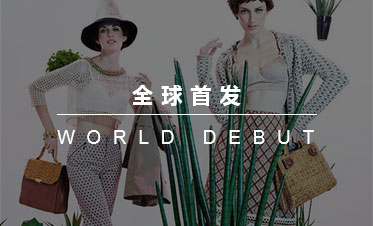
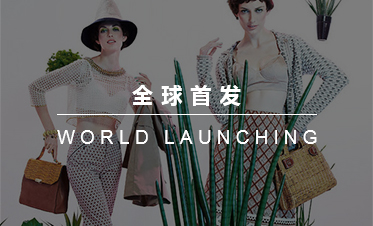
7/21 图片翻译有误替换

Changed region(s): [[0.2064, 0.5575, 0.8552, 0.6504]]

diff --git a/shop/public/css/base.css b/shop/public/css/base.css
@@ -549,7 +549,7 @@ table .pro{width: 360px;}
 .detail-inner .comment-item .comment-title{height: 34px;line-height: 34px;text-align: right;}
 .detail-inner .comment-item .comment-title .user{float: left;}
 .detail-inner .comment-item .comment-img{width: 50px;height: 90px;overflow: hidden;margin-right: 20px;padding-top: 5px;}
-.detail-inner .container .comment-page{padding-left:553px;margin-bottom: 20px;}
+.detail-inner .container .comment-page{padding-left:630px;margin-bottom: 20px;}
 .detail-inner .container .comment-page li{float:left;margin-right: 10px;}
 .detail-inner .container .comment-page a:hover{text-decoration: none;}
 .detail-inner .right{width: 373px;}
@@ -667,7 +667,7 @@ table .pro{width: 360px;}
 .all-order-list .order-list .not-pay{color: #FF2D54;}
 .all-order-list .order-list .pay{padding: 8px 14px;background: #FF2D54;color: #fff;}
 .all-order-list .order-list .confirm,.all-order-list .order-list .comment,.all-order-list .refund .cancel{padding: 8px 14px;background: #000;color: #fff;}
-.all-order-list .order-page{padding-left:700px;}
+.all-order-list .order-page{padding-left:795px;}
 .all-order-list .order-page li{float: left;margin-right: 15px;}
 
 .all-order-list .refund .order-number{color: #FF2D54}
@@ -796,13 +796,9 @@ table .pro{width: 360px;}
 .designer-brand-inner .brand-start-fashion li:hover,.designer-brand-inner .ready-online li:hover,.designer-brand-inner .hot-sale li:hover{box-shadow: 4px 4px 20px #b4b2b2;}
 .designer-brand-inner .brand-start-fashion li .cover,.designer-brand-inner .ready-online li .cover,.designer-brand-inner .hot-sale li .cover{position: absolute;width:283px;top: 462px;z-index: 10;height: 60px;}
 .designer-brand-inner .brand-start-fashion li .cover .design-cover,.designer-brand-inner .ready-online li  .cover .design-cover,.designer-brand-inner .hot-sale li .cover .design-cover{position: absolute;width:283px;top: 0;height: 60px;background: #000;opacity: .6;filter:alpha(opacity=60);z-index: -1;}
-/*.designer-brand-inner .brand-start-fashion a:hover,.designer-brand-inner .ready-online a:hover,.designer-brand-inner .hot-sale a:hover{text-decoration: none;}*/
-/*.designer-brand-inner .brand-start-fashion .like,.designer-brand-inner .ready-online .like,.designer-brand-inner .like,.designer-brand-inner  .buy{padding: 3px 20px 3px 30px;border: 1px solid #FF2D54;border-radius: 50px;margin:0 20px 0 40px;}*/
-/*.designer-brand-inner  .like{background: #fff;}*/
-/*.designer-brand-inner  .buy{background: #FF2D54;color: #fff;margin: 0 0 0 0;}*/
+
 .designer-brand-inner .brand-start-fashion .info,.designer-brand-inner .ready-online .info,.designer-brand-inner .hot-sale .info{height: 60px;}
 .designer-brand-inner .brand-start-fashion .info p,.designer-brand-inner .ready-online .info p,.designer-brand-inner .hot-sale .info p{color: #fff;text-align: center;padding: 20px 0;}
-/*.designer-brand-inner .ready-online .like{margin-left: 96px}*/
 .designer-brand-inner .ready-online .info p,.designer-brand-inner .hot-sale .info p{padding-top: 20px;}
 /*end designer-brand */
 /*address-manage*/
@@ -943,7 +939,7 @@ table .pro{width: 360px;}
 .footer-inner a:hover{color: #fd2049;}
 /*end footer*/
 .sider-bar{
-    position: absolute;width:62px;border-left: 1px solid #ccc;border-right: 1px solid #ccc;border-bottom: 1px solid #ccc;border-top: 6px solid #FF2D54;
+    position: fixed;width:62px;border-left: 1px solid #ccc;border-right: 1px solid #ccc;border-bottom: 1px solid #ccc;border-top: 6px solid #FF2D54;
     left: 50%;margin-left: 600px;top: 740px;
 }
 .small-sider{width: 36px;border-top: 3px solid #FF2D54;margin-left: 592px;}

diff --git a/shop/app/views/product_list.scala.html b/shop/app/views/product_list.scala.html
@@ -34,9 +34,9 @@
         $('#cart-quantity-btn').click(function () {
             window.location.href = "/cart/showCart";
         });
-
-
+        var flag = true;
         $('#designerFocus').click(function(){
+            if(flag){flag = false;}else{return false;}
         var id = $(this).attr('data-id'),that = $(this);
         if(that.hasClass('hasFocus')){//已经关注
             $.ajax({
@@ -50,8 +50,10 @@
                         if(res.result){
                             that.find('.focus-text').text('关注');
                             that.removeClass('hasFocus');
-                              $('.shi').fadeOut('300',function(){
-                                 $('.kong').fadeIn();
+                              $('.shi').fadeOut('100',function(){
+                                 $('.kong').fadeIn('100',function(){
+                                    flag = true;
+                                 });
                               });
                         }
                     }
@@ -71,8 +73,10 @@
                         if(res.result){
                             that.find('.focus-text').text('已关注');
                             that.addClass('hasFocus');
-                             $('.kong').fadeOut('300',function(){
-                                $('.shi').fadeIn();
+                             $('.kong').fadeOut('100',function(){
+                                $('.shi').fadeIn('100',function(){
+                                flag = true;
+                                });
                              });
                         }
                     }

diff --git a/shop/public/js/details.js b/shop/public/js/details.js
@@ -213,7 +213,9 @@ $(function () {
 
 
     //我喜欢按钮
+    var flag = true;
     $('.detail-like .like').click(function () {
+        if(flag){flag = false;}else{return false;}
         var id = $(this).attr('data-id'), that = $(this);
         if (!$(this).is('.current')) {
             $.ajax({
@@ -224,7 +226,9 @@ $(function () {
                         that.addClass('current');
                         $('.like-text').text(res.message);
                         $('.kong').fadeOut('300',function(){
-                            $('.shi').fadeIn();
+                            $('.shi').fadeIn('100',function(){
+                                flag = true;
+                            });
                         });
                     } else {
                         if (res.message == 'Credentials required') {
@@ -242,7 +246,9 @@ $(function () {
                         that.removeClass('current');
                         $('.like-text').text('我喜欢');
                         $('.shi').fadeOut('300',function(){
-                            $('.kong').fadeIn();
+                            $('.kong').fadeIn('100',function(){
+                                flag = true;
+                            });
                         });
                     }
                 }

diff --git a/shop/app/views/preview.scala.html b/shop/app/views/preview.scala.html
@@ -150,7 +150,7 @@
     <div class="start-fashion">
         <div class="start-fashion-inner width1200">
             <h2>即将上线　敬请期待</h2>
-            <p class="info">Fashion as a religion.</p>
+            <p class="info">More designers coming soon...</p>
             <ul class="clearfix">
             @if(sellingMap.get(ExhibitionPosition.FLOOR_ONE) != null) {
                 @for(exhibition <- sellingMap.getOrElse(ExhibitionPosition.FLOOR_ONE, null)) {
